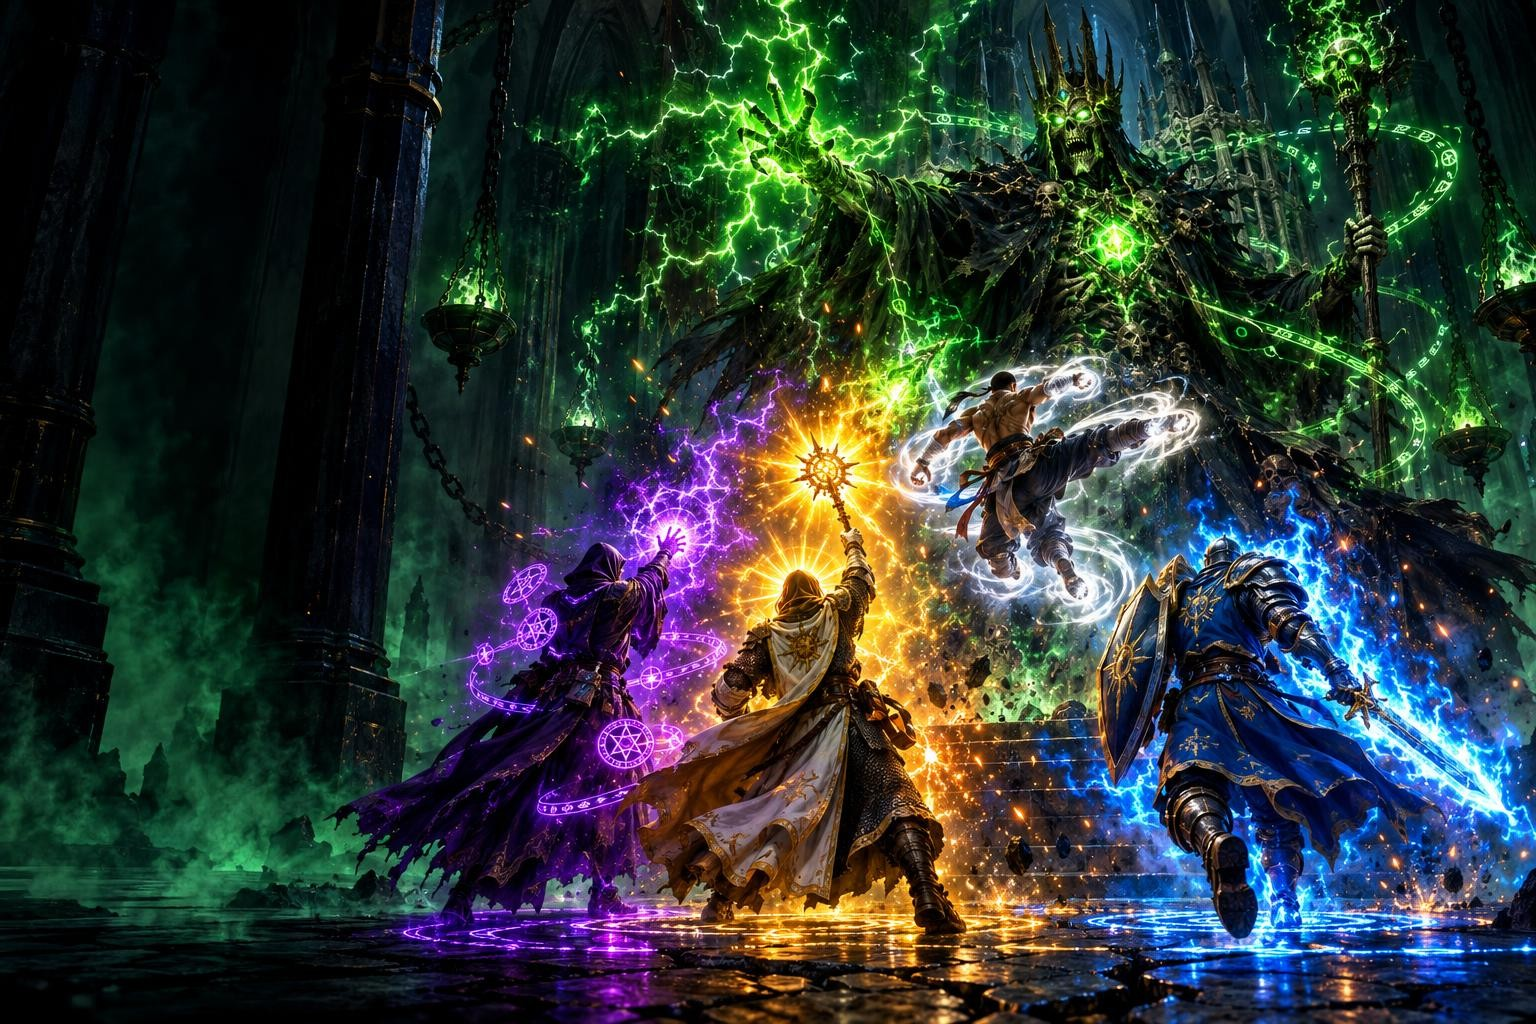
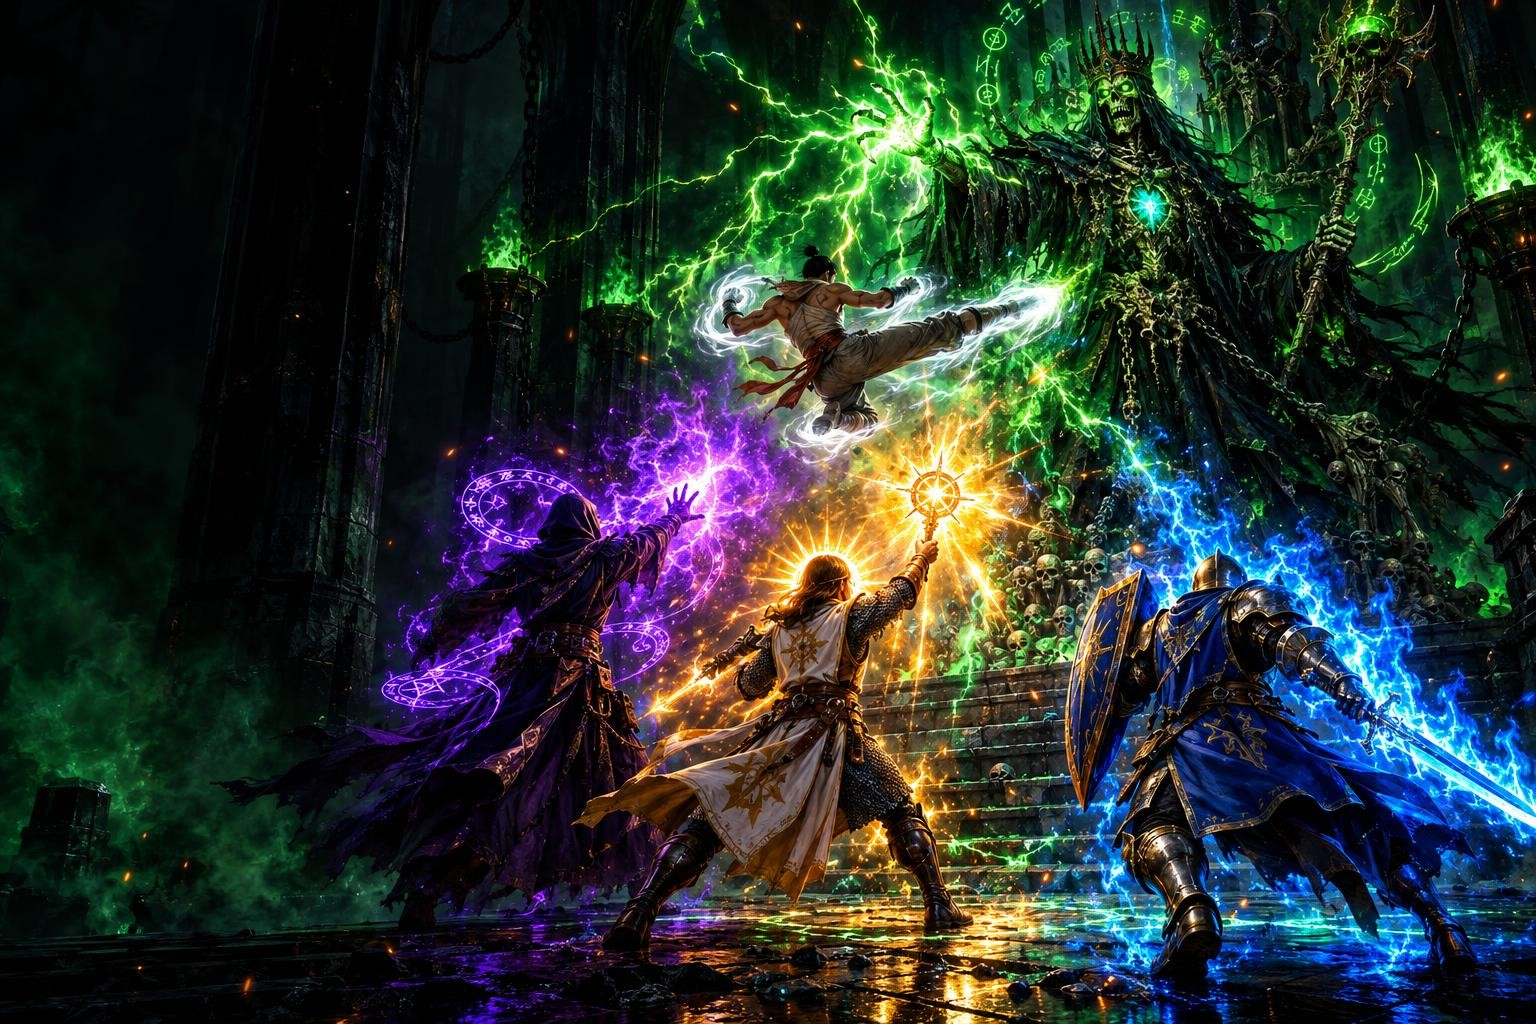
The wide title painting, painted afresh
The host saw a third leg on the monk. The monk's pose is now spelled out
(a flying side kick in profile, exactly two legs, two arms) and every
figure is asked for with correct anatomy; the best of three candidates
replaces the painting. The tall phone painting is unchanged.

diff --git a/assets/title/ART-NOTES.md b/assets/title/ART-NOTES.md
@@ -2,14 +2,14 @@
 
 Two paintings of the same battle are the backdrop of the title screen and the menus: four heroes against a lich in its lair. Both were painted on 2026-10-02 by the game's own illustration service (a high-quality `title` kind that was switched on in `world-art.cjs` only while they were made, then removed: a paired tester must not be able to ask for costly paintings).
 
-- `questbound-title-wide.jpg` (1536 × 1024): for computers and for a phone held sideways.
+- `questbound-title-wide.jpg` (1536 × 1024): for computers and for a phone held sideways. Painted afresh later on 2026-10-02 after the host saw a third leg on the monk: the monk's pose was spelled out (a flying side kick in profile, exactly two legs, one extended and one bent, two arms) and a line asking for correct anatomy on every figure was added; the best of three candidates was kept.
 - `questbound-title-tall.jpg` (1024 × 1536): for a phone held upright.
 
 ## What was asked for
 
 Shared by both:
 
-> Four heroes fight it, each wreathed in spell-light of their own colour. A WARLOCK in dark hooded robes hurls crackling neon PURPLE eldritch blasts from an outstretched hand, violet sigils spinning around them. A CLERIC in vestments over mail raises a holy symbol blazing neon YELLOW-ORANGE radiant light, a golden sunburst behind their head. A MONK in simple wraps leaps in a flying kick, fists and feet trailing arcs of neon WHITE ki. A PALADIN in heavy plate armour with greatsword and shield burns with neon BLUE divine flame, charging. The LICH is a towering crowned skeletal sorcerer in tattered black robes, eye sockets burning, a phylactery glowing at its chest, unleashing torrents of neon GREEN necrotic lightning and swirling emerald runes. Purple, orange, white and blue light collide with the green in a storm of sparks. The lair is a vast black crypt-cathedral of obsidian pillars, chained braziers, a throne of fused bones, glowing magic circles on a cracked dark floor, drifting embers and smoke. Lit almost entirely by the spell-light: deep black shadows, saturated rim light, vivid neon glow. Monumental scale, dramatic low camera angle, the lich looming huge over the heroes.
+> Four heroes fight it, each wreathed in spell-light of their own colour. A WARLOCK in dark hooded robes hurls crackling neon PURPLE eldritch blasts from an outstretched hand, violet sigils spinning around them. A CLERIC in vestments over mail raises a holy symbol blazing neon YELLOW-ORANGE radiant light, a golden sunburst behind their head. A MONK in simple wraps, mid-air in a flying side kick seen clearly in profile: exactly two legs, one extended straight toward the lich and the other bent beneath, exactly two arms with fists raised, arcs of neon WHITE ki trailing from hands and feet. (The tall painting was made with the earlier, shorter monk sentence: "A MONK in simple wraps leaps in a flying kick, fists and feet trailing arcs of neon WHITE ki.") A PALADIN in heavy plate armour with greatsword and shield burns with neon BLUE divine flame, charging. The LICH is a towering crowned skeletal sorcerer in tattered black robes, eye sockets burning, a phylactery glowing at its chest, unleashing torrents of neon GREEN necrotic lightning and swirling emerald runes. Purple, orange, white and blue light collide with the green in a storm of sparks. The lair is a vast black crypt-cathedral of obsidian pillars, chained braziers, a throne of fused bones, glowing magic circles on a cracked dark floor, drifting embers and smoke. Lit almost entirely by the spell-light: deep black shadows, saturated rim light, vivid neon glow. Monumental scale, dramatic low camera angle, the lich looming huge over the heroes. Every figure has correct anatomy: two arms and two legs each, no extra, missing or merged limbs, no duplicated figures. (The last sentence was added for the second wide painting.)
 
 Wide:
 
